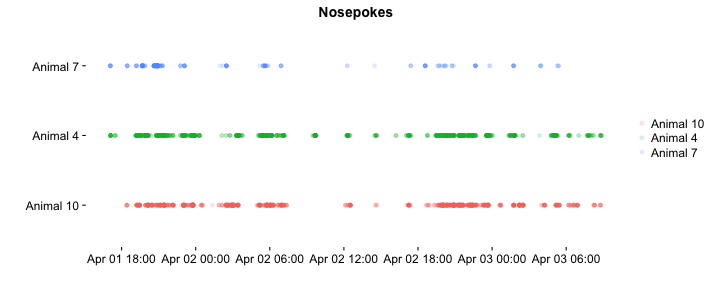
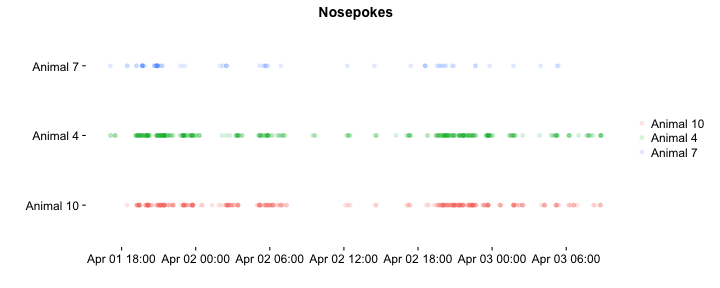
Fixes to training log, add time errors after nosepoke window and remove non first nosepokes

diff --git a/TrainingLog.html b/TrainingLog.html
@@ -169,7 +169,7 @@ hr {
 
 <p>This R markdown requires ggplot2 package and will install it if it doesn&#39;t exist.  </p>
 
-<p>It read the &ldquo;animals.txt&rdquo;, &ldquo;visits.txt&rdquo; and &ldquo;nosepokes.txt&rdquo; files, removes all non-first nosepokes    </p>
+<p>It read the &ldquo;animals.txt&rdquo;, &ldquo;visits.txt&rdquo; and &ldquo;nosepokes.txt&rdquo; files,    </p>
 
 <p>and assigns animal name for each event as a factor(visit and nosepoke).  </p>
 

diff --git a/Logs/2016-04-01 17.01.25/TrainingLog20160401.md b/Logs/2016-04-01 17.01.25/TrainingLog20160401.md
@@ -6,7 +6,7 @@ This is a log for the first training session with wild types, no injections, the
 This R markdown requires ggplot2 package and will install it if it doesn't exist.  
 
 
-It read the "animals.txt", "visits.txt" and "nosepokes.txt" files,    
+It read the "animals.txt", "visits.txt" and "nosepokes.txt" files, removes all non-first nosepokes    
 
 and assigns animal name for each event as a factor(visit and nosepoke).  
 
@@ -44,7 +44,7 @@ This is the nosepokes count with the appropriate plot
 ```
 ## 
 ## Animal 10  Animal 4  Animal 7 
-##      1372      1297       270
+##       310       321        67
 ```
 
 ![plot of chunk unnamed-chunk-10](figure/unnamed-chunk-10-1.png)
@@ -68,11 +68,11 @@ This is a plot showing the fraction of errors per time window.
 
 ```
 ##   AnimalName Day Count TimeError
-## 1  Animal 10   1   343       240
-## 2   Animal 4   2   351       270
-## 3   Animal 7   1   163        88
-## 4  Animal 10   2   446       287
-## 5   Animal 4   1   368       252
-## 6   Animal 7   2    25        23
+## 1  Animal 10   1    94        72
+## 2   Animal 4   2    94        77
+## 3   Animal 7   1    31        19
+## 4  Animal 10   2    97        72
+## 5   Animal 4   1   110        86
+## 6   Animal 7   2    11        10
 ```
 The data shows that there are times when they succeed in the task, but do not lick, or that the lickometer doesn't record the licking. We are trying to make the task easier so they could learn and drink.  
